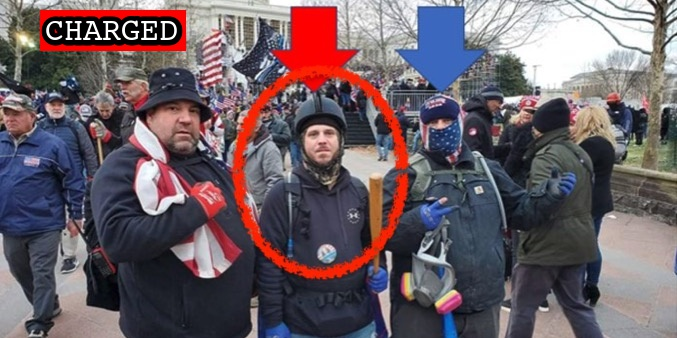
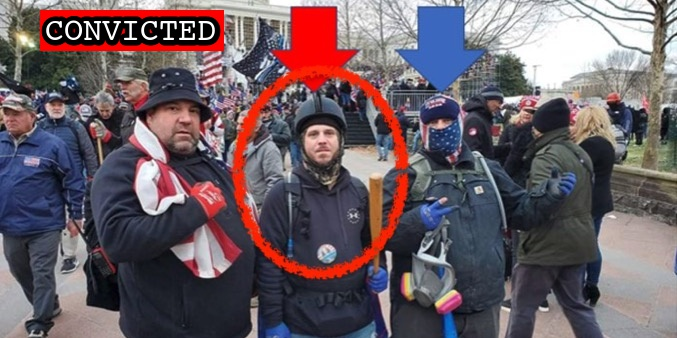
Latest import

Changed region(s): [[0.0931, 0.0296, 0.3412, 0.1775]]

diff --git a/docs/_suspects/country-cramer.md b/docs/_suspects/country-cramer.md
@@ -4,16 +4,16 @@ lastName: Cramer
 hashtag: GasMaskBluePal
 aka:
 residence: West Virginia
-status: Charged
+status: Convicted
 date: 2022-07-01
 charged: 2022-07-01
 indicted:
-convicted:
+convicted: 2022-10-25
 acquitted:
 sentenced:
 dismissed:
 deceased:
-plea_hearing:
+plea_hearing: 2022-10-25
 trial_date:
 trial_type:
 sentencing:
@@ -35,12 +35,19 @@ description: Click for latest case details. Suspects innocent until proven guilt
 author: seditiontrack
 layout: suspect
 published: true
-caseNumber: 22-mj-0150
+caseNumber: 22-cr-0339
 caseName: USA v. CRAMER
 judge: Moxila A. Upadhyaya
 videos:
 charges:
+- code: 40 USC § 5104(e)(2)(G)
+  title: Parading, demonstrating or picketing in a Capitol building
+  url: https://www.law.cornell.edu/uscode/text/40/5104
+  felony: false
 sentence:
 ---
 - [Complaint](https://www.justice.gov/usao-dc/case-multi-defendant/file/1518551/download)
 - [Statement of Facts](https://www.justice.gov/usao-dc/case-multi-defendant/file/1518556/download)
+- [Information](https://www.justice.gov/usao-dc/case-multi-defendant/file/1546896/download)
+- [Plea Agreement](https://www.justice.gov/usao-dc/case-multi-defendant/file/1546901/download)
+- [Statement of Offense](https://www.justice.gov/usao-dc/case-multi-defendant/file/1546906/download)

diff --git a/docs/_suspects/eric-cramer.md b/docs/_suspects/eric-cramer.md
@@ -4,11 +4,11 @@ lastName: Cramer
 hashtag: GasMaskBlue
 aka:
 residence: West Virginia
-status: Charged
+status: Convicted
 date: 2022-07-01
 charged: 2022-07-01
 indicted:
-convicted:
+convicted: 2022-10-25
 acquitted:
 sentenced:
 dismissed:
@@ -40,7 +40,15 @@ caseName: USA v. CRAMER
 judge: Randolph D. Moss
 videos:
 charges:
+  - code: 18 USC § 1752(a)(2)
+    title: Disorderly and disruptive conduct in a restricted building or grounds
+    url: https://www.law.cornell.edu/uscode/text/18/1752
+    felony: false
 sentence:
 ---
+
 - [Complaint](https://www.justice.gov/usao-dc/case-multi-defendant/file/1518541/download)
 - [Statement of Facts](https://www.justice.gov/usao-dc/case-multi-defendant/file/1518546/download)
+- [Information](https://www.justice.gov/usao-dc/case-multi-defendant/file/1546911/download)
+- [Plea Agreement](https://www.justice.gov/usao-dc/case-multi-defendant/file/1546916/download)
+- [Statement of Offense](https://www.justice.gov/usao-dc/case-multi-defendant/file/1546921/download)
